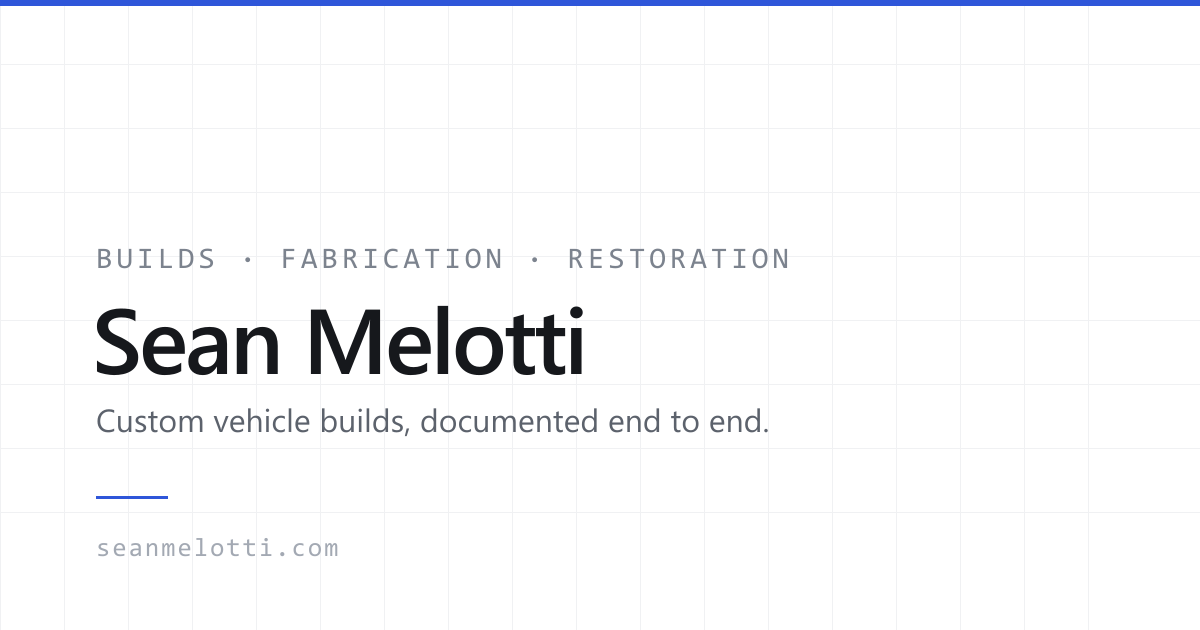
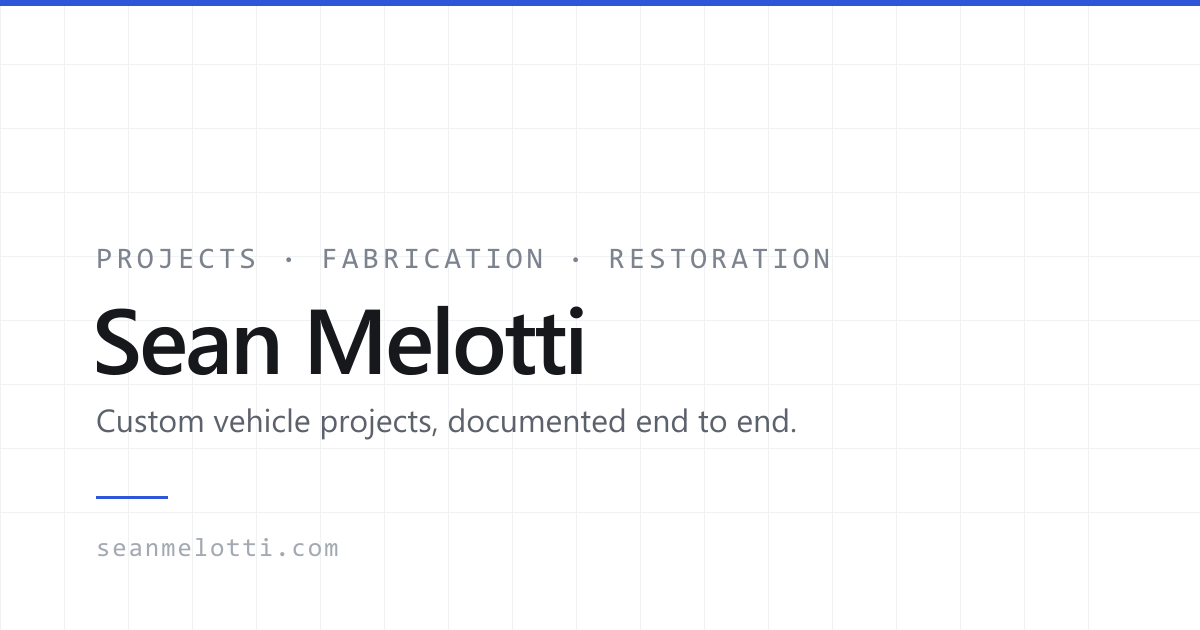
Rename builds to projects across the site
Sean asked for "projects" as the term for the work, everywhere a visitor
can see it. This renames the route, the content collection, the card
component, the placeholder assets and all the copy that went with them.

/builds stays as a redirect to /projects so the preview URL already shared
and any link that went out still lands somewhere real.

Changed region(s): [[0.2775, 0.6333, 0.6783, 0.6937], [0.0925, 0.3921, 0.7092, 0.4222]]

diff --git a/src/content.config.ts b/src/content.config.ts
@@ -2,7 +2,7 @@ import { defineCollection, z } from 'astro:content';
 import { glob } from 'astro/loaders';
 
 /**
- * `builds` — one entry per vehicle build write-up.
+ * `projects` — one entry per vehicle project write-up.
  *
  * Phase 1 defines the schema only; there is a single placeholder entry to prove
  * the collection compiles. Phase 2 fills it with real write-ups and photos.
@@ -11,8 +11,8 @@ import { glob } from 'astro/loaders';
  * moving them into src/ and switching this field to Astro's `image()` helper so
  * covers get optimised and dimension-checked at build time.
  */
-const builds = defineCollection({
-  loader: glob({ base: './src/content/builds', pattern: '**/*.{md,mdx}' }),
+const projects = defineCollection({
+  loader: glob({ base: './src/content/projects', pattern: '**/*.{md,mdx}' }),
   schema: z.object({
     title: z.string(),
     summary: z.string(),
@@ -28,4 +28,4 @@ const builds = defineCollection({
   }),
 });
 
-export const collections = { builds };
+export const collections = { projects };
